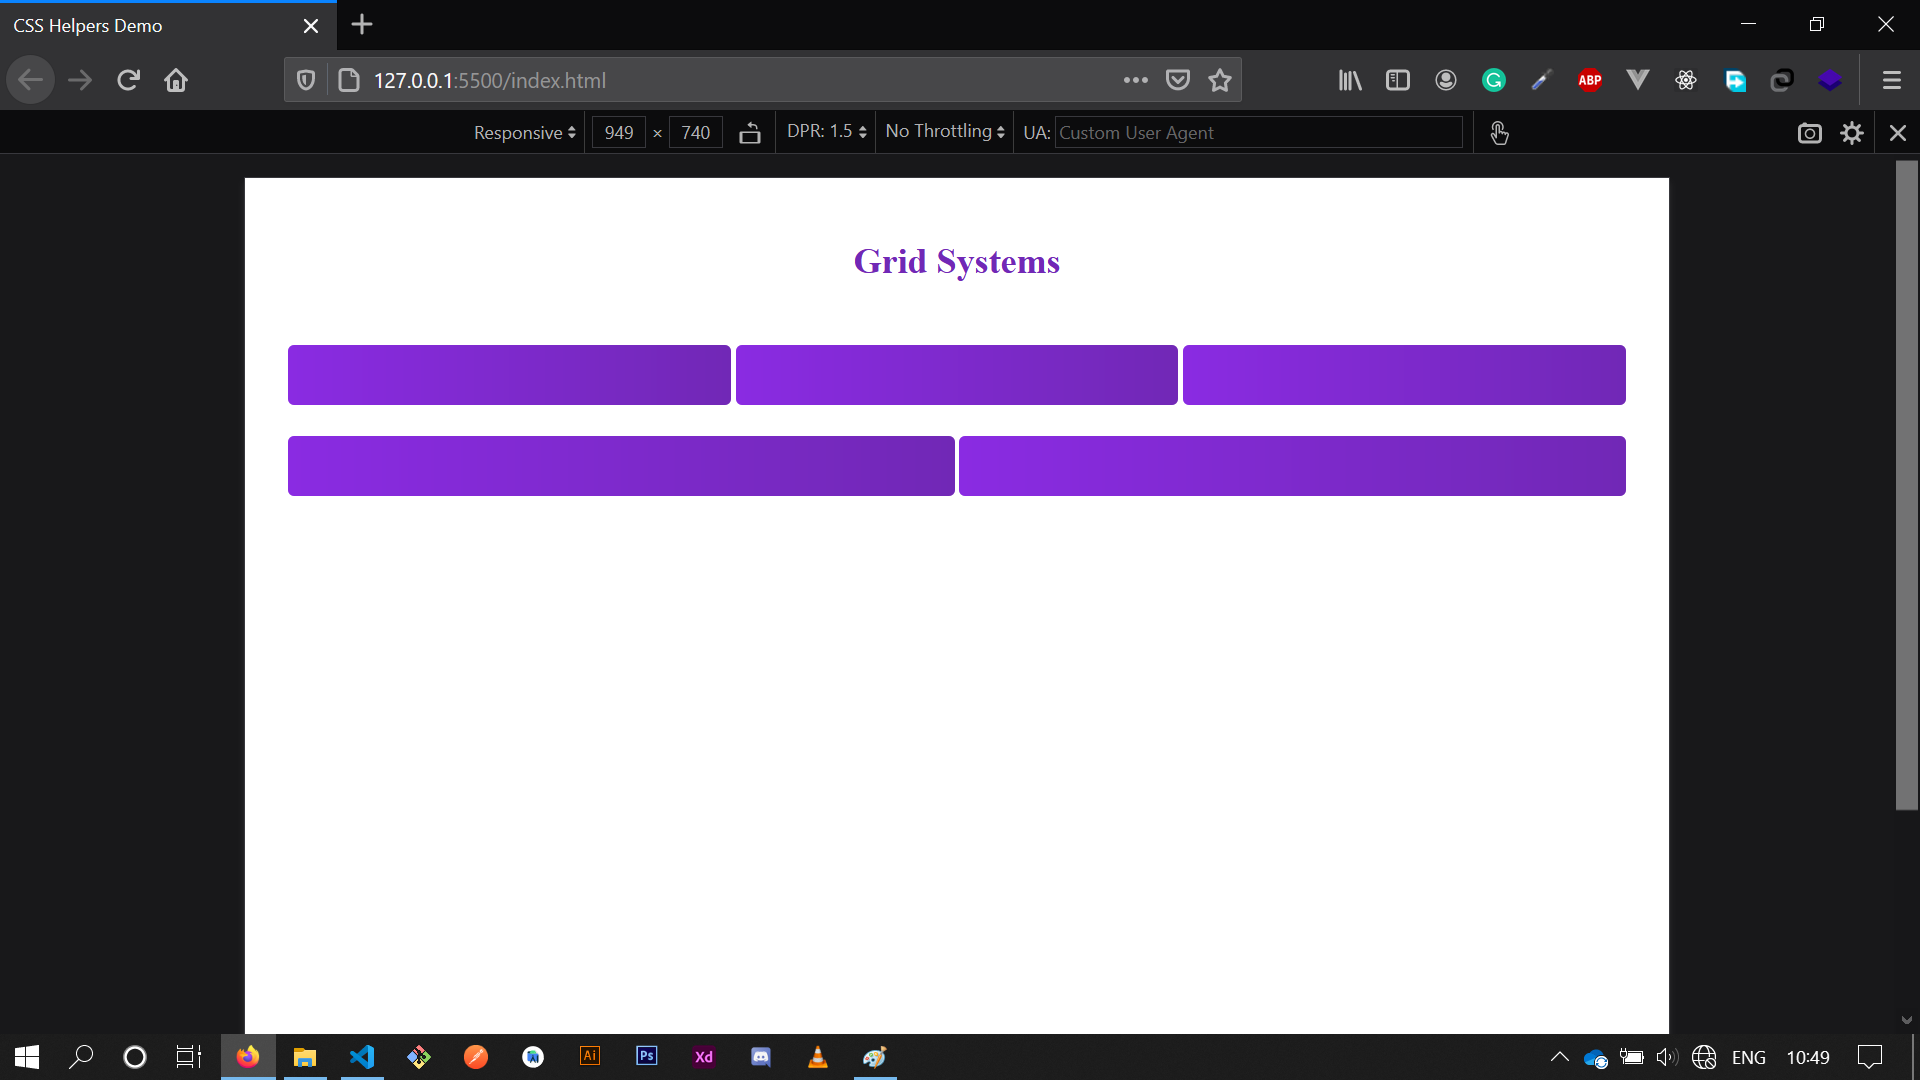
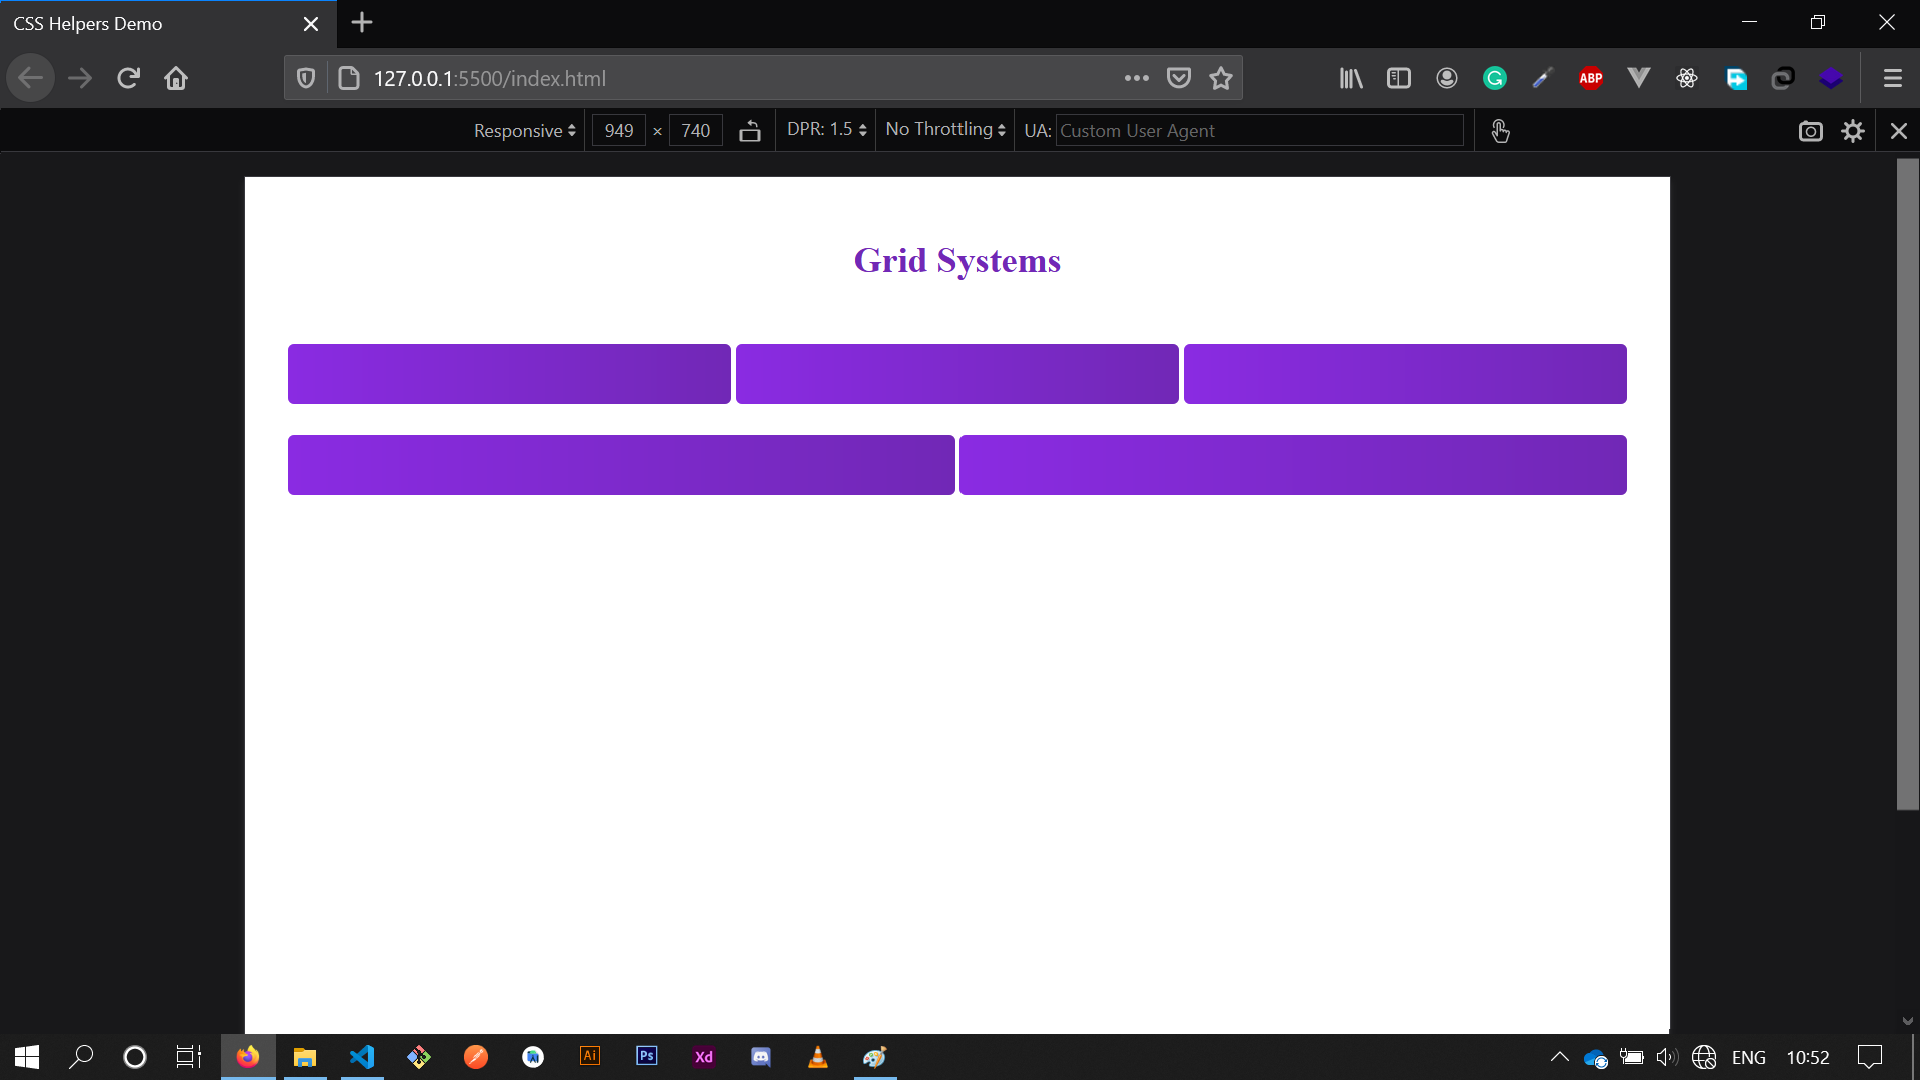
Commit to publish

diff --git a/README.md b/README.md
@@ -16,7 +16,7 @@
     2. Margin and padding helper classes.
     3. Theme preferences.
 
-<br>
+<br><br>
 
 # Javascript Helpers
 
@@ -58,7 +58,7 @@ This javascript helper is the **_()** function that can help us to manage elemen
 
 <br>
 
-### **Usage**
+## **Usage**
 
 #### **Select and get element**
 In order to select an element using this helper, use this code below :
@@ -187,7 +187,7 @@ _("button").removeEvent("click", callback)
 
 ```
 
-<br>
+<br><br>
 
 # CSS Helpers
 
@@ -199,42 +199,107 @@ For example, in **_index.html_** file we have a bunch of lines of code as below 
 
 <!DOCTYPE html>
 <html lang="en">
+
 <head>
   <meta charset="UTF-8">
   <meta name="viewport" content="width=device-width, initial-scale=1.0">
+  <link rel="stylesheet" href="./public/css/style.css">
   <title>CSS Helpers Demo</title>
+
+  <style>
+    h2 {
+      color: rgb(113, 40, 182);
+      text-align: center;
+    }
+
+    .box {
+      width: 100%;
+      min-height: 40px;
+      background-image: linear-gradient(to right, blueviolet, rgb(113, 40, 182));
+      border-radius: 4px;
+    }
+  </style>
 </head>
+
 <body>
   <div class="container">
+    <h2 class="my-4">Grid Systems</h2>
+
     <div class="row">
-      <div class="col-md-2">
+      <div class="col-md-3">
+        <div class="box"></div>
         <div class="box"></div>
         <div class="box"></div>
       </div>
     </div>
     <div class="row my-2">
-        <div class="col-md-1">
-          <div class="box"></div>
-          <div class="box"></div>
-        </div>
+      <div class="col-md-2">
+        <div class="box"></div>
+        <div class="box"></div>
       </div>
+    </div>
   </div>
 </body>
+
 </html>
 
 ```
 
-### **Usage**
+**The results are :**
+
+![Example for css helpers](images/example-css.png)
+
+<br>
+
+## **Usage**
 
 #### **Grid systems**
 
-**The results are :**
+```html
 
-Image 1
+<!-- 2 columns in small screen -->
+<div class="row">
+  <div class="col-sm-2">
+    <div class="box"></div>
+    <div class="box"></div>
+  </div>
+</div>
 
-Image 1
 
-Image 1
+<!-- 2 columns in medium screen -->
+<!-- and 1 column in small screen -->
+<div class="row">
+  <div class="col-md-3 col-sm-1">
+    <div class="box"></div>
+    <div class="box"></div>
+    <div class="box"></div>
+  </div>
+</div>
 
+
+<!-- available columns are up to 11 -->
+<div class="row">
+  <div class="col-sm-11">
+    <div class="box"></div>
+    <div class="box"></div>
+    <div class="box"></div>
+  </div>
+</div>
+
+
+<!-- if you want to use 12 columns, -->
+<!-- use col-sm, col-md, col-lg, col-xl -->
+<div class="row">
+  <div class="col-xl">
+    <div class="box"></div>
+    <div class="box"></div>
+    <div class="box"></div>
+  </div>
+</div>
+
+```
+
+<br>
 
 #### **Margin and Padding**
+
